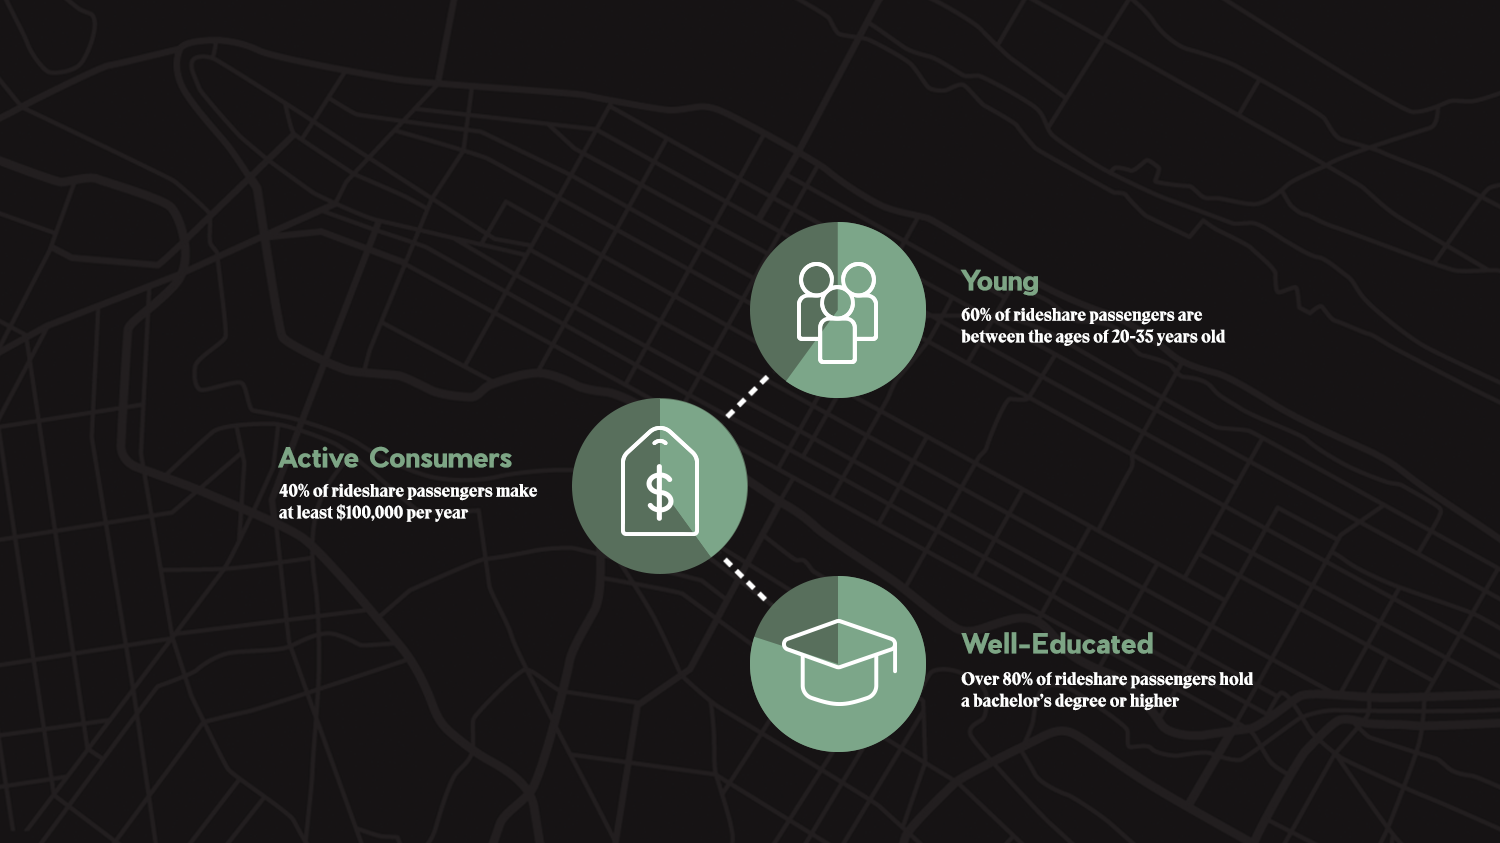
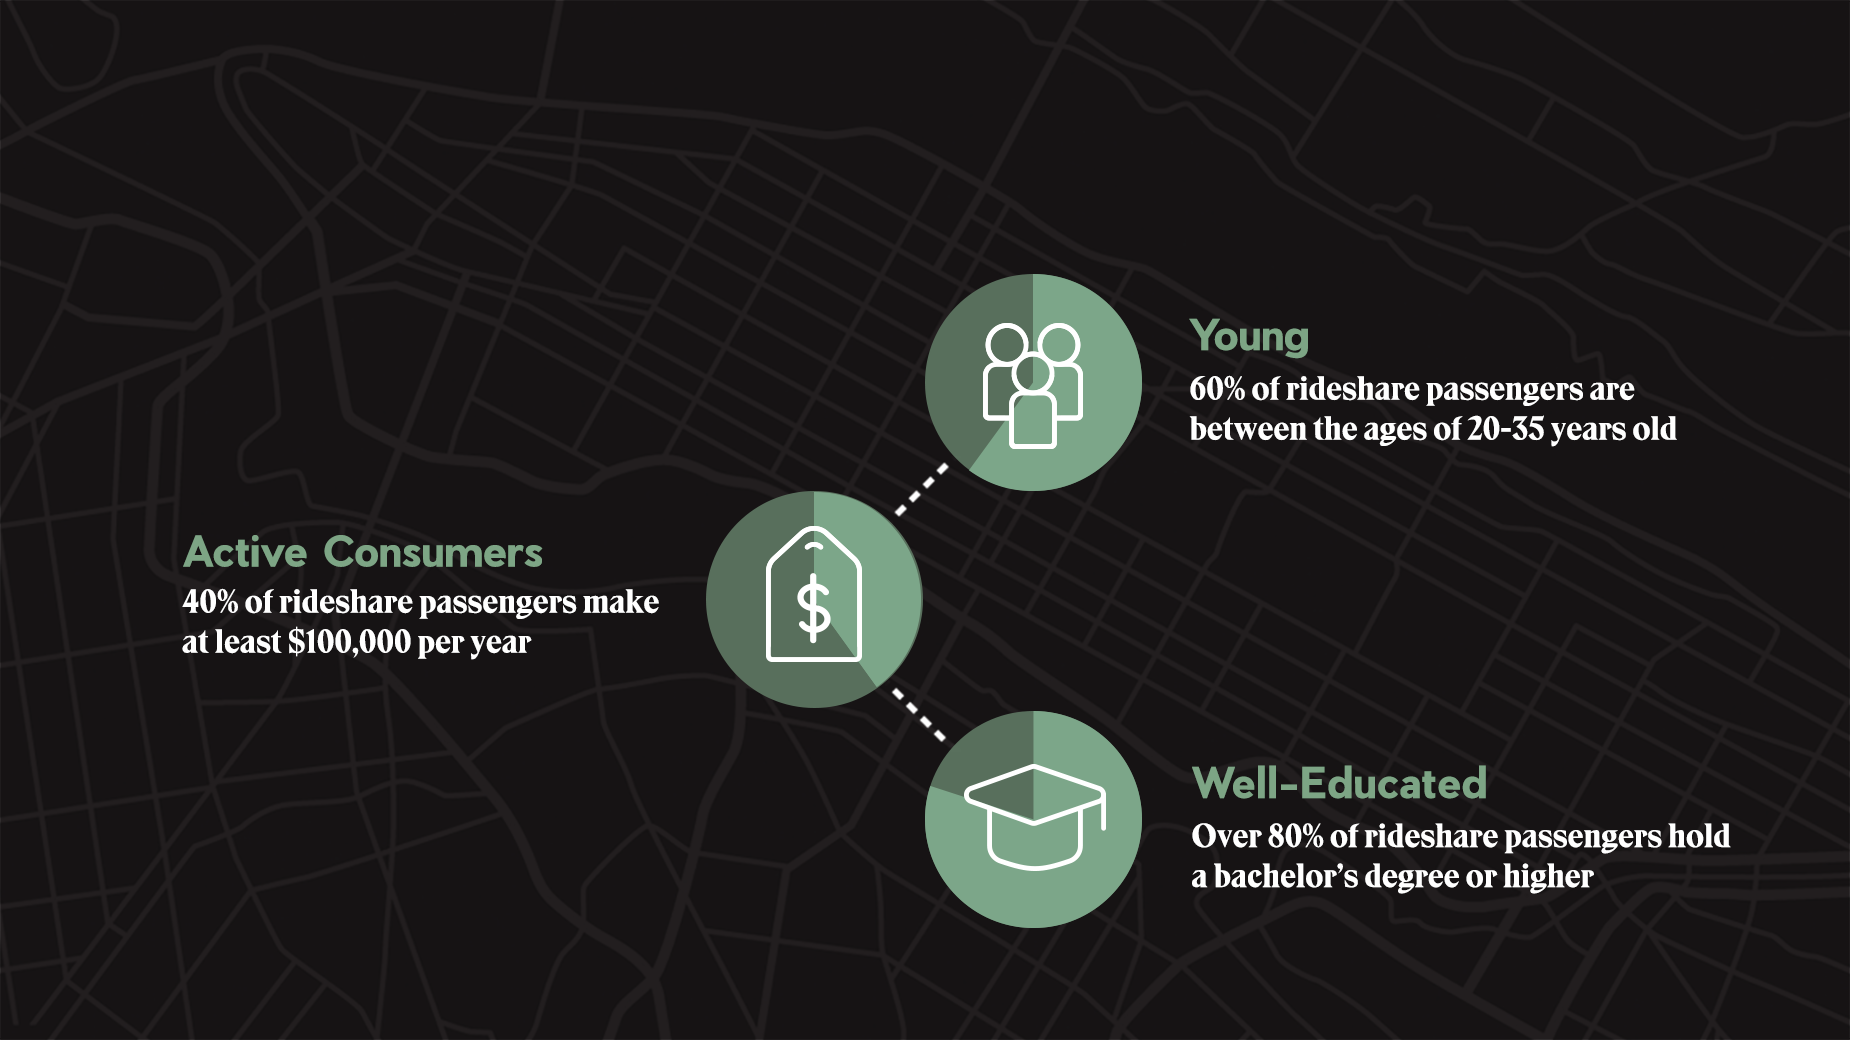
changes after meeting with bennett and alex

Changed region(s): [[0.644, 0.7402, 0.9507, 0.8636], [0.092, 0.5243, 0.368, 0.6477], [0.644, 0.3084, 0.92, 0.4318]]

diff --git a/pages/advertisers.html b/pages/advertisers.html
@@ -69,13 +69,20 @@
 
     <section id='price' class="content content-drive">
         <div id='pricecontainer' class="container">
-            <div id="driverboxrow" class="row">
+            <div id="driverboxrow" class="row panel-group" id="accordion" role="tablist">
                 <h1 id='pricingheader' class='text-center' >Pricing Plans</h1>
-                <div class="drivercontainer col-lg-3 col-md-3 col-sm-6 col-xs-12">
+                <div class="panel panel-default drivercontainer col-lg-3 col-md-3 col-sm-6 col-xs-12">
                     <div id="driverbox1" class="driverboxes">
+                        <div class="panel title">
+                        <a role="button" data-toggle="collapse" data-parent="#accordion" href="#collapseOne" aria-expanded="true" aria-controls="collapseOne">
+
                         <h3 class="drivetitle text-center">Banner Ad Package</h3>
                         <p class='text-center driveicons'>$24.95</p>
                         <p class='text-center drivesubtitle'>/ month</p>
+
+                        </a>
+                        </div>
+                        <div id="collapseOne" class="panel-collapse collapse" role="tabpanel" aria-labelledby="headingOne">
                         <hr>
                         <ul class='pricinglist'>
                             <p class='drivesubheader'>Content</p>
@@ -92,13 +99,22 @@
                         <div id='drivebuttondiv' class='text-center'>
                             <a id='bannerbutton' href="#joinform" class="btn-yellow mdc-button mdc-button--raised mdc-button--primary page-scroll">SIGN UP</a>
                         </div>
+                        </div>
                     </div>
                 </div>
                 <div class="drivercontainer col-lg-3 col-md-3 col-sm-6 col-xs-12">
                     <div id="driverbox2" class="driverboxes">
+                     <div class="panel title">
+                        <a role="button" data-toggle="collapse" data-parent="#accordion" href="#collapseTwo" aria-expanded="true" aria-controls="collapseTwo">
                         <h3 class="drivetitle text-center">Starter Plan</h3>
                         <p class='text-center driveicons'>$39.95</p>
                         <p class='text-center drivesubtitle'>/ month</p>
+
+                        </a>
+                        </div>
+
+                        <div id="collapseTwo" class="panel-collapse collapse" role="tabpanel" aria-labelledby="headingTwo">
+
                         <hr>
                         <ul class='pricinglist'>
                             <p class='drivesubheader'>Content</p>
@@ -116,13 +132,21 @@
                         <div id='drivebuttondiv' class='text-center'>
                             <a id='starterbutton' href="#joinform" class="btn-yellow mdc-button mdc-button--raised mdc-button--primary page-scroll">SIGN UP</a>
                         </div>
+                        </div>
                     </div>
                 </div>
                 <div class="drivercontainer col-lg-3 col-md-3 col-sm-6 col-xs-12">
                     <div id="driverbox3" class="driverboxes">
+                    <div class="panel title">
+                        <a role="button" data-toggle="collapse" data-parent="#accordion" href="#collapseThree" aria-expanded="true" aria-controls="collapseTwo">
                         <h3 class="text-center drivetitle">Advanced Plan</h3>
                         <p class='text-center driveicons'>$99.95</p>
                         <p class='text-center drivesubtitle'>/ month</p>
+
+                        </a>
+                        </div>
+
+                        <div id="collapseThree" class="panel-collapse collapse" role="tabpanel" aria-labelledby="headingThree">
                         <hr>
                         <ul class='pricinglist'>
                             <p class='drivesubheader'>Content</p>
@@ -140,13 +164,21 @@
                         <div id='drivebuttondiv' class='text-center'>
                             <a id='advancedbutton' href="#joinform" class="btn-yellow mdc-button mdc-button--raised mdc-button--primary page-scroll">SIGN UP</a>
                         </div>
+                        </div>
                     </div>
                 </div>
                 <div class="drivercontainer col-lg-3 col-md-3 col-sm-6 col-xs-12">
                     <div id="driverbox4" class="driverboxes">
+                    <div class="panel title">
+                        <a role="button" data-toggle="collapse" data-parent="#accordion" href="#collapseFour" aria-expanded="true" aria-controls="collapseTwo">
                         <h3 class="text-center drivetitle">Commercial Plan</h3>
                         <p class='text-center driveicons'>$399.95</p>
                         <p class='text-center drivesubtitle'>/ month</p>
+
+                        </a>
+                        </div>
+
+                        <div id="collapseFour" class="panel-collapse collapse" role="tabpanel" aria-labelledby="headingFour">
                         <hr>
                         <ul class='pricinglist'>
                             <p class='drivesubheader'>Content</p>
@@ -163,6 +195,7 @@
                         </ul>
                         <div id='drivebuttondiv' class='text-center'>
                         <a id='commercialbutton' href="#joinform" class="btn-yellow mdc-button mdc-button--raised mdc-button--primary page-scroll">SIGN UP</a>
+                        </div>
                         </div>
                     </div>
                 </div>

diff --git a/index.html b/index.html
@@ -72,15 +72,15 @@
 
     <section id="infosection" class="content content-3">
         <div class="container">
-            <h1 id='getstartedtoggleheader' class='text-center'>You are a...</h1>
+<!--             <h1 id='getstartedtoggleheader' class='text-center'>You are a...</h1> -->
             <!-- <h2 id='getstartedtoggleheader' class='advertiserinfo text-center'>You are an Advertiser.</h2> -->
             <div id="buttonrow" class="row">
                 <div class='col-sm-3'></div>
                 <div class='col-sm-3 col-xs-6'>
-                    <button id='showadvertiser' class="activebutton btn-yellow mdc-button mdc-button--raised mdc-button--accent" data-mdc-auto-init="MDCRipple">Advertiser</button>
+                    <button id='showadvertiser' class="activebutton btn-yellow mdc-button mdc-button--raised mdc-button--accent" data-mdc-auto-init="MDCRipple">AdvertiserS</button>
                 </div>
                 <div class='col-sm-3 col-xs-6'>
-                    <button id='showdriver' class="inactivebutton btn-yellow mdc-button mdc-button--raised mdc-button--accent" data-mdc-auto-init="MDCRipple">Driver</button>
+                    <button id='showdriver' class="inactivebutton btn-yellow mdc-button mdc-button--raised mdc-button--accent" data-mdc-auto-init="MDCRipple">DriverS</button>
                 </div>
                 <div class='col-sm-3'></div>
             </div>
@@ -134,7 +134,7 @@
                     <!-- DRIVER INFO -->
                     <div class='driverinfo infographic' >
                         <h4 class='infoheader text-center'>No Installation Required</h4>
-                        <p class='infopar'>Drivers can provide their own tablets or get all of the necessary gear from Rideo. Just strap the tablet to your passenger headrest, drive your routes, and earn extra income. <a href="pages/drivers.html#drivepricing" class='morelink'> Find out more.</a></p>
+                        <p class='infopar'>Drivers can provide their own tablets or get all of the necessary gear from Rideo. Just strap the tablet to your passenger headrest, drive your routes, and earn extra income. <a href="pages/support.html#support" class='morelink'> Find out more.</a></p>
                     </div>
                     <div class='driverinfo infographic' >
                         <h4 class='infoheader text-center'>Learn More</h4>
@@ -187,12 +187,12 @@
                 <div class='logosdiv'>
                 <img class='logoimages' src="images/partner_logos/HomBom_Logo.png">
                 <img class='logoimages' src="images/partner_logos/JustBecause_Logo.png">
-                <img class='logoimages' src="images/partner_logos/SilkRoad_Logo.png">
+                <img class='logoimages' src="images/partner_logos/SilkRoadLogo.png">
                 <img class='logoimages' src="images/partner_logos/Throne_Logo.png">
-<!--                 <img class='logoimages' src="images/partner_logos/artistsandfleaslogo.png">
-                <img class='logoimages' src="images/partner_logos/feltraigerlogo.png">
+                <img class='logoimages' src="images/partner_logos/artistsandfleaslogo.png">
+                <img class='logoimages' src="images/partner_logos/feltraigerlogo2.png">
                 <img class='logoimages' src="images/partner_logos/senzalogo.png">
-                <img class='logoimages' src="images/partner_logos/TM1985.png"> -->
+                <img class='logoimages' src="images/partner_logos/TM1985logo2.png">
             </div>
         </div>
       </div>

diff --git a/css/style.css b/css/style.css
@@ -69,7 +69,7 @@ header {
     min-height: auto;
     text-align: center;
     color: #fff;
-    background-image: url('../images/Rideo_background_2b.jpg');
+    background-image: url('../images/Rideo_background_2c.jpg');
     background-position: center;
     -webkit-background-size: cover;
     -moz-background-size: cover;
@@ -390,7 +390,7 @@ header .header-content .header-content-inner h1 {
 
 .btn-yellow {
     background-color: #f2d585 !important;
-    /*color: #221e1f !important;*/
+    color: #FFFFFF !important;
     padding-top: 2px !important;
 }
 
@@ -544,20 +544,6 @@ header .header-content .header-content-inner h1 {
     /*margin-bottom: 20px;*/
 }
 
-#getstartedheader {
-    color: #FFFFFF;
-    margin-top: 6%;
-    margin-bottom: 6%;
-    font-weight: bold;
-}
-
-#getstartedtoggleheader {
-    color: #221e1f;
-    font-weight: bold;
-    margin-bottom: 2%;
-    margin-top: 5%;
-}
-
 #contactus {
     margin-top: 6%;
     margin-bottom: 4%;
@@ -660,7 +646,8 @@ header .header-content .header-content-inner h1 {
 }
 
 #buttonrow {
-    margin-bottom: 1%;
+    margin-top: 6%;
+    margin-bottom: 2%;
 }
 
 #infoparagraphrow {

diff --git a/pages/drivers.html b/pages/drivers.html
@@ -100,7 +100,7 @@
                     <hr>
                     <p>The Rideo team is dedicated to providing full time support for our driving partners. We’re here to ensure your tablets runs smoothly, your payments are received on time, and answer any other questions you may have. Join the growing network of Rideo drivers who are increasing their earning potential and improving passenger experience.</p>
                     <div id='drivebuttondiv' class='text-center'>
-                        <a href="#joinform" class="page-scroll btn-yellow mdc-button mdc-button--raised mdc-button--primary">Sign Up</a>
+                        <a href="about.html#about" class="page-scroll btn-yellow mdc-button mdc-button--raised mdc-button--primary">Sign Up</a>
                     </div>
                     </div>
                 </div>

diff --git a/css/advertisers.css b/css/advertisers.css
@@ -484,7 +484,13 @@ header .header-content .header-content-inner h1 {
 }
 
 #price {
-    background-color: #221e1f;
+    background-image: url('../images/RideoDemographics_map.png');
+    background-position: center;
+    -webkit-background-size: cover;
+    -moz-background-size: cover;
+    background-size: cover;
+    -o-background-size: cover;
+    min-height: 125%;
 }
 
 #signupbutton {

diff --git a/css/drivers.css b/css/drivers.css
@@ -298,7 +298,12 @@ header .header-content .header-content-inner h1 {
 }
 
 .content-drive {
-    background-color: #221e1f;
+     background-image: url('../images/RideoDemographics_map.png');
+    background-position: center;
+    -webkit-background-size: cover;
+    -moz-background-size: cover;
+    background-size: cover;
+    -o-background-size: cover;
     padding: 20px 0 40px;
 }
 
